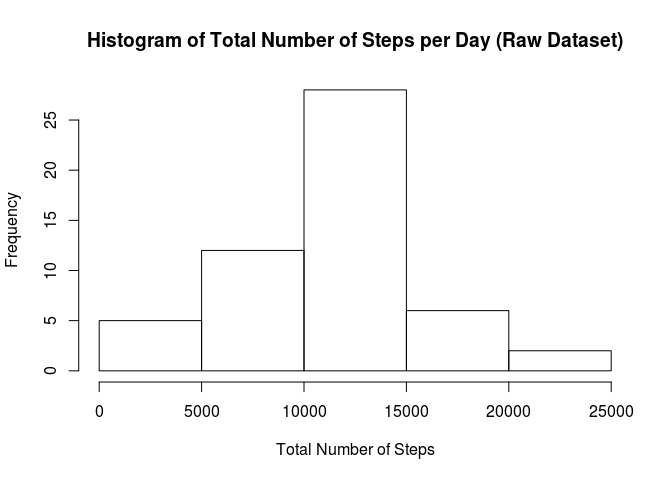
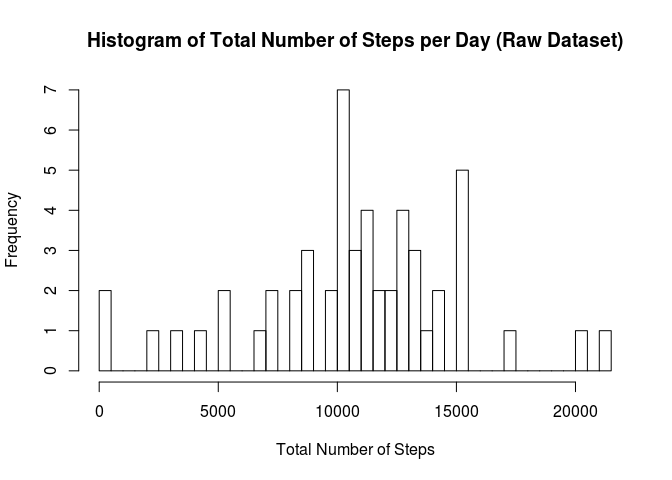
update plots

diff --git a/PA1_template.html b/PA1_template.html
@@ -114,23 +114,26 @@ $(document).ready(function () {
 </div>
 
 
+<p><BR></p>
 <div id="loading-and-preprocessing-the-data" class="section level2">
 <h2>Loading and preprocessing the data</h2>
 <p>We’ll read in the raw data file “activity.csv” and change the class of the date variable.</p>
 <pre class="r"><code>raw &lt;- read.csv(&quot;activity.csv&quot;) 
 raw$date &lt;- as.Date(raw$date) </code></pre>
+<p><BR></p>
 </div>
 <div id="what-is-the-mean-total-number-of-steps-taken-per-day" class="section level2">
 <h2>What is the mean total number of steps taken per day?</h2>
 <p>Let’s calculate the sum of the number of steps taken each day and draw a histogram.</p>
 <pre class="r"><code>totsteps &lt;- aggregate(steps ~ date, data = raw, FUN = &quot;sum&quot;)
-hist(totsteps$steps, xlab = &quot;Total Number of Steps&quot;, main = &quot;Histogram of Total Number of Steps per Day (Raw Dataset)&quot;)</code></pre>
[1 lines of base64/hex data omitted]
+hist(totsteps$steps, breaks = 50, xlab = &quot;Total Number of Steps&quot;, main = &quot;Histogram of Total Number of Steps per Day (Raw Dataset)&quot;)</code></pre>
[1 lines of base64/hex data omitted]
 <p>Next, we’ll calculate the mean and median of the total number of steps taken for each day.</p>
 <pre class="r"><code>mean(totsteps$steps)</code></pre>
 <pre><code>## [1] 10766.19</code></pre>
 <pre class="r"><code>median(totsteps$steps)</code></pre>
 <pre><code>## [1] 10765</code></pre>
+<p><BR></p>
 </div>
 <div id="what-is-the-average-daily-activity-pattern" class="section level2">
 <h2>What is the average daily activity pattern?</h2>
@@ -141,6 +144,7 @@ plot(avsteps$interval, avsteps$steps, type = &quot;l&quot;, xlab = &quot;Interva
 <p>Looks like there is a peak in the number of steps somewhere around the 800 minute interval, perhaps it’s a daily run. Let’s see exactly which 5 minute interval had the maximum number of steps taken.</p>
 <pre class="r"><code>avsteps[avsteps$steps == max(avsteps$steps),]$interval</code></pre>
 <pre><code>## [1] 835</code></pre>
+<p><BR></p>
 </div>
 <div id="imputing-missing-values" class="section level2">
 <h2>Imputing missing values</h2>
@@ -154,9 +158,12 @@ df$steps[is.na(df$steps)] &lt;- df$steps_avg[is.na(df$steps)]</code></pre>
 <p>Now, let’s create a new “clean” dataframe identical to the raw dataset with the NA values replaced.</p>
 <pre class="r"><code>clean &lt;- df[, c(2, 3, 1)]
 clean &lt;- clean[order(clean$date),]</code></pre>
-<p>How does this compare to the raw dataset? Let’s calculate the total number of steps per day, then the mean and the median.</p>
+<p>How does this compare to the raw dataset? Let’s calculate the total number of steps per day and draw a histogram.</p>
 <pre class="r"><code>cleantotsteps &lt;- aggregate(steps ~ date, data = clean, FUN = &quot;sum&quot;)
-mean(cleantotsteps$steps)</code></pre>
+hist(cleantotsteps$steps, breaks = 50, xlab = &quot;Total Number of Steps&quot;, main = &quot;Histogram of Total Number of Steps per Day (Cleaned Dataset)&quot;)</code></pre>
[1 lines of base64/hex data omitted]
+<p>Now, let’s calculate the mean and median of the clean data set.</p>
+<pre class="r"><code>mean(cleantotsteps$steps)</code></pre>
 <pre><code>## [1] 10766.19</code></pre>
 <pre class="r"><code>median(cleantotsteps$steps)</code></pre>
 <pre><code>## [1] 10766.19</code></pre>
@@ -166,6 +173,7 @@ mean(cleantotsteps$steps)</code></pre>
 <pre class="r"><code>median(totsteps$steps) - median(cleantotsteps$steps)</code></pre>
 <pre><code>## [1] -1.188679</code></pre>
 <p>Interesting, the mean’s are the same but the median seems to have been shifted up.</p>
+<p><BR></p>
 </div>
 <div id="are-there-differences-in-activity-patterns-between-weekdays-and-weekends" class="section level2">
 <h2>Are there differences in activity patterns between weekdays and weekends?</h2>

diff --git a/PA1_template.md b/PA1_template.md
@@ -1,6 +1,8 @@
 # Reproducible Research: Peer Assessment 1
 Adrien Atallah  
 
+<BR>
+
 ## Loading and preprocessing the data
 
 We'll read in the raw data file "activity.csv" and change the class of the date variable.
@@ -11,6 +13,7 @@ raw$date <- as.Date(raw$date)
 ```
 
 
+<BR>
 
 ## What is the mean total number of steps taken per day?
 
@@ -18,7 +21,7 @@ Let's calculate the sum of the number of steps taken each day and draw a histogr
 
 ```r
 totsteps <- aggregate(steps ~ date, data = raw, FUN = "sum")
-hist(totsteps$steps, xlab = "Total Number of Steps", main = "Histogram of Total Number of Steps per Day (Raw Dataset)")
+hist(totsteps$steps, breaks = 50, xlab = "Total Number of Steps", main = "Histogram of Total Number of Steps per Day (Raw Dataset)")
 ```
 
 ![](PA1_template_files/figure-html/unnamed-chunk-2-1.png)
@@ -41,6 +44,8 @@ median(totsteps$steps)
 ## [1] 10765
 ```
 
+<BR>
+
 ## What is the average daily activity pattern?
 Let's first calculate the average number of steps for each 5 minute interval and draw a time series plot.
 
@@ -60,6 +65,8 @@ avsteps[avsteps$steps == max(avsteps$steps),]$interval
 ```
 ## [1] 835
 ```
+
+<BR>
 
 
 ## Imputing missing values  
@@ -89,10 +96,18 @@ clean <- clean[order(clean$date),]
 ```
 
 How does this compare to the raw dataset?
-Let's calculate the total number of steps per day, then the mean and the median.
+Let's calculate the total number of steps per day and draw a histogram.
 
 ```r
 cleantotsteps <- aggregate(steps ~ date, data = clean, FUN = "sum")
+hist(cleantotsteps$steps, breaks = 50, xlab = "Total Number of Steps", main = "Histogram of Total Number of Steps per Day (Cleaned Dataset)")
+```
+
+![](PA1_template_files/figure-html/unnamed-chunk-9-1.png)
+
+Now, let's calculate the mean and median of the clean data set.
+
+```r
 mean(cleantotsteps$steps)
 ```
 
@@ -126,6 +141,8 @@ median(totsteps$steps) - median(cleantotsteps$steps)
 ```
 Interesting, the mean's are the same but the median seems to have been shifted up. 
 
+<BR>
+
 
 ## Are there differences in activity patterns between weekdays and weekends?
 
@@ -146,7 +163,7 @@ library(ggplot2)
 print(qplot(interval, steps, data = avstepsdays, facets = day ~., geom = "line", main = "Average Steps Taken vs. 5 min Interval (Cleaned Dataset)"))
 ```
 
-![](PA1_template_files/figure-html/unnamed-chunk-12-1.png)
+![](PA1_template_files/figure-html/unnamed-chunk-13-1.png)
 
 It looks like there are more steps being taken on the weekends.  Let's compare the overall totals.
 
